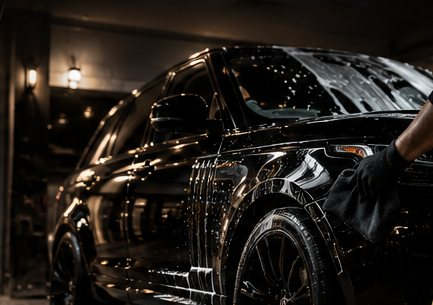
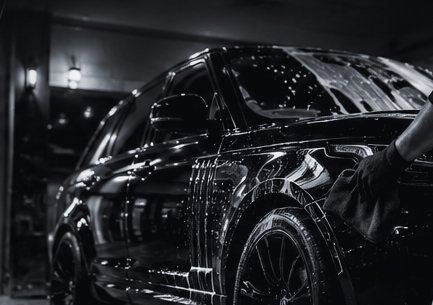
Force browsers to load the silver styles and tone photos silver
Version the stylesheet and script links so cached gold CSS is replaced,
and convert the photo files themselves to a cool silver monochrome.

Claude-Session: https://claude.ai/code/session_017hxxbDKbUeqispwomAU6bj

diff --git a/index.html b/index.html
@@ -9,7 +9,7 @@
   <link rel="preconnect" href="https://fonts.googleapis.com" />
   <link rel="preconnect" href="https://fonts.gstatic.com" crossorigin />
   <link href="https://fonts.googleapis.com/css2?family=Cinzel:wght@400;500;600;700&family=Playfair+Display:ital,wght@1,500;1,600&family=Jost:wght@300;400;500&display=swap" rel="stylesheet" />
-  <link rel="stylesheet" href="styles.css" />
+  <link rel="stylesheet" href="styles.css?v=silver-2" />
 </head>
 <body>
 
@@ -435,6 +435,6 @@
     </div>
   </footer>
 
-  <script src="script.js"></script>
+  <script src="script.js?v=silver-2"></script>
 </body>
 </html>

diff --git a/README.md b/README.md
@@ -39,3 +39,7 @@ Download the files and double-click `index.html` to open it in your browser.
 ## How the quote form works
 
 When a visitor submits the form, it opens their email app with a message to you already filled in. If you'd rather receive submissions without the visitor's email app, a free service like [Formspree](https://formspree.io) can be plugged in later.
+
+## If the live site looks out of date
+
+Browsers save a copy of `styles.css` and `script.js`. After you change either one, bump the version at the end of its link in `index.html` (e.g. `styles.css?v=silver-2` → `styles.css?v=silver-3`) so every visitor gets the new file right away.
